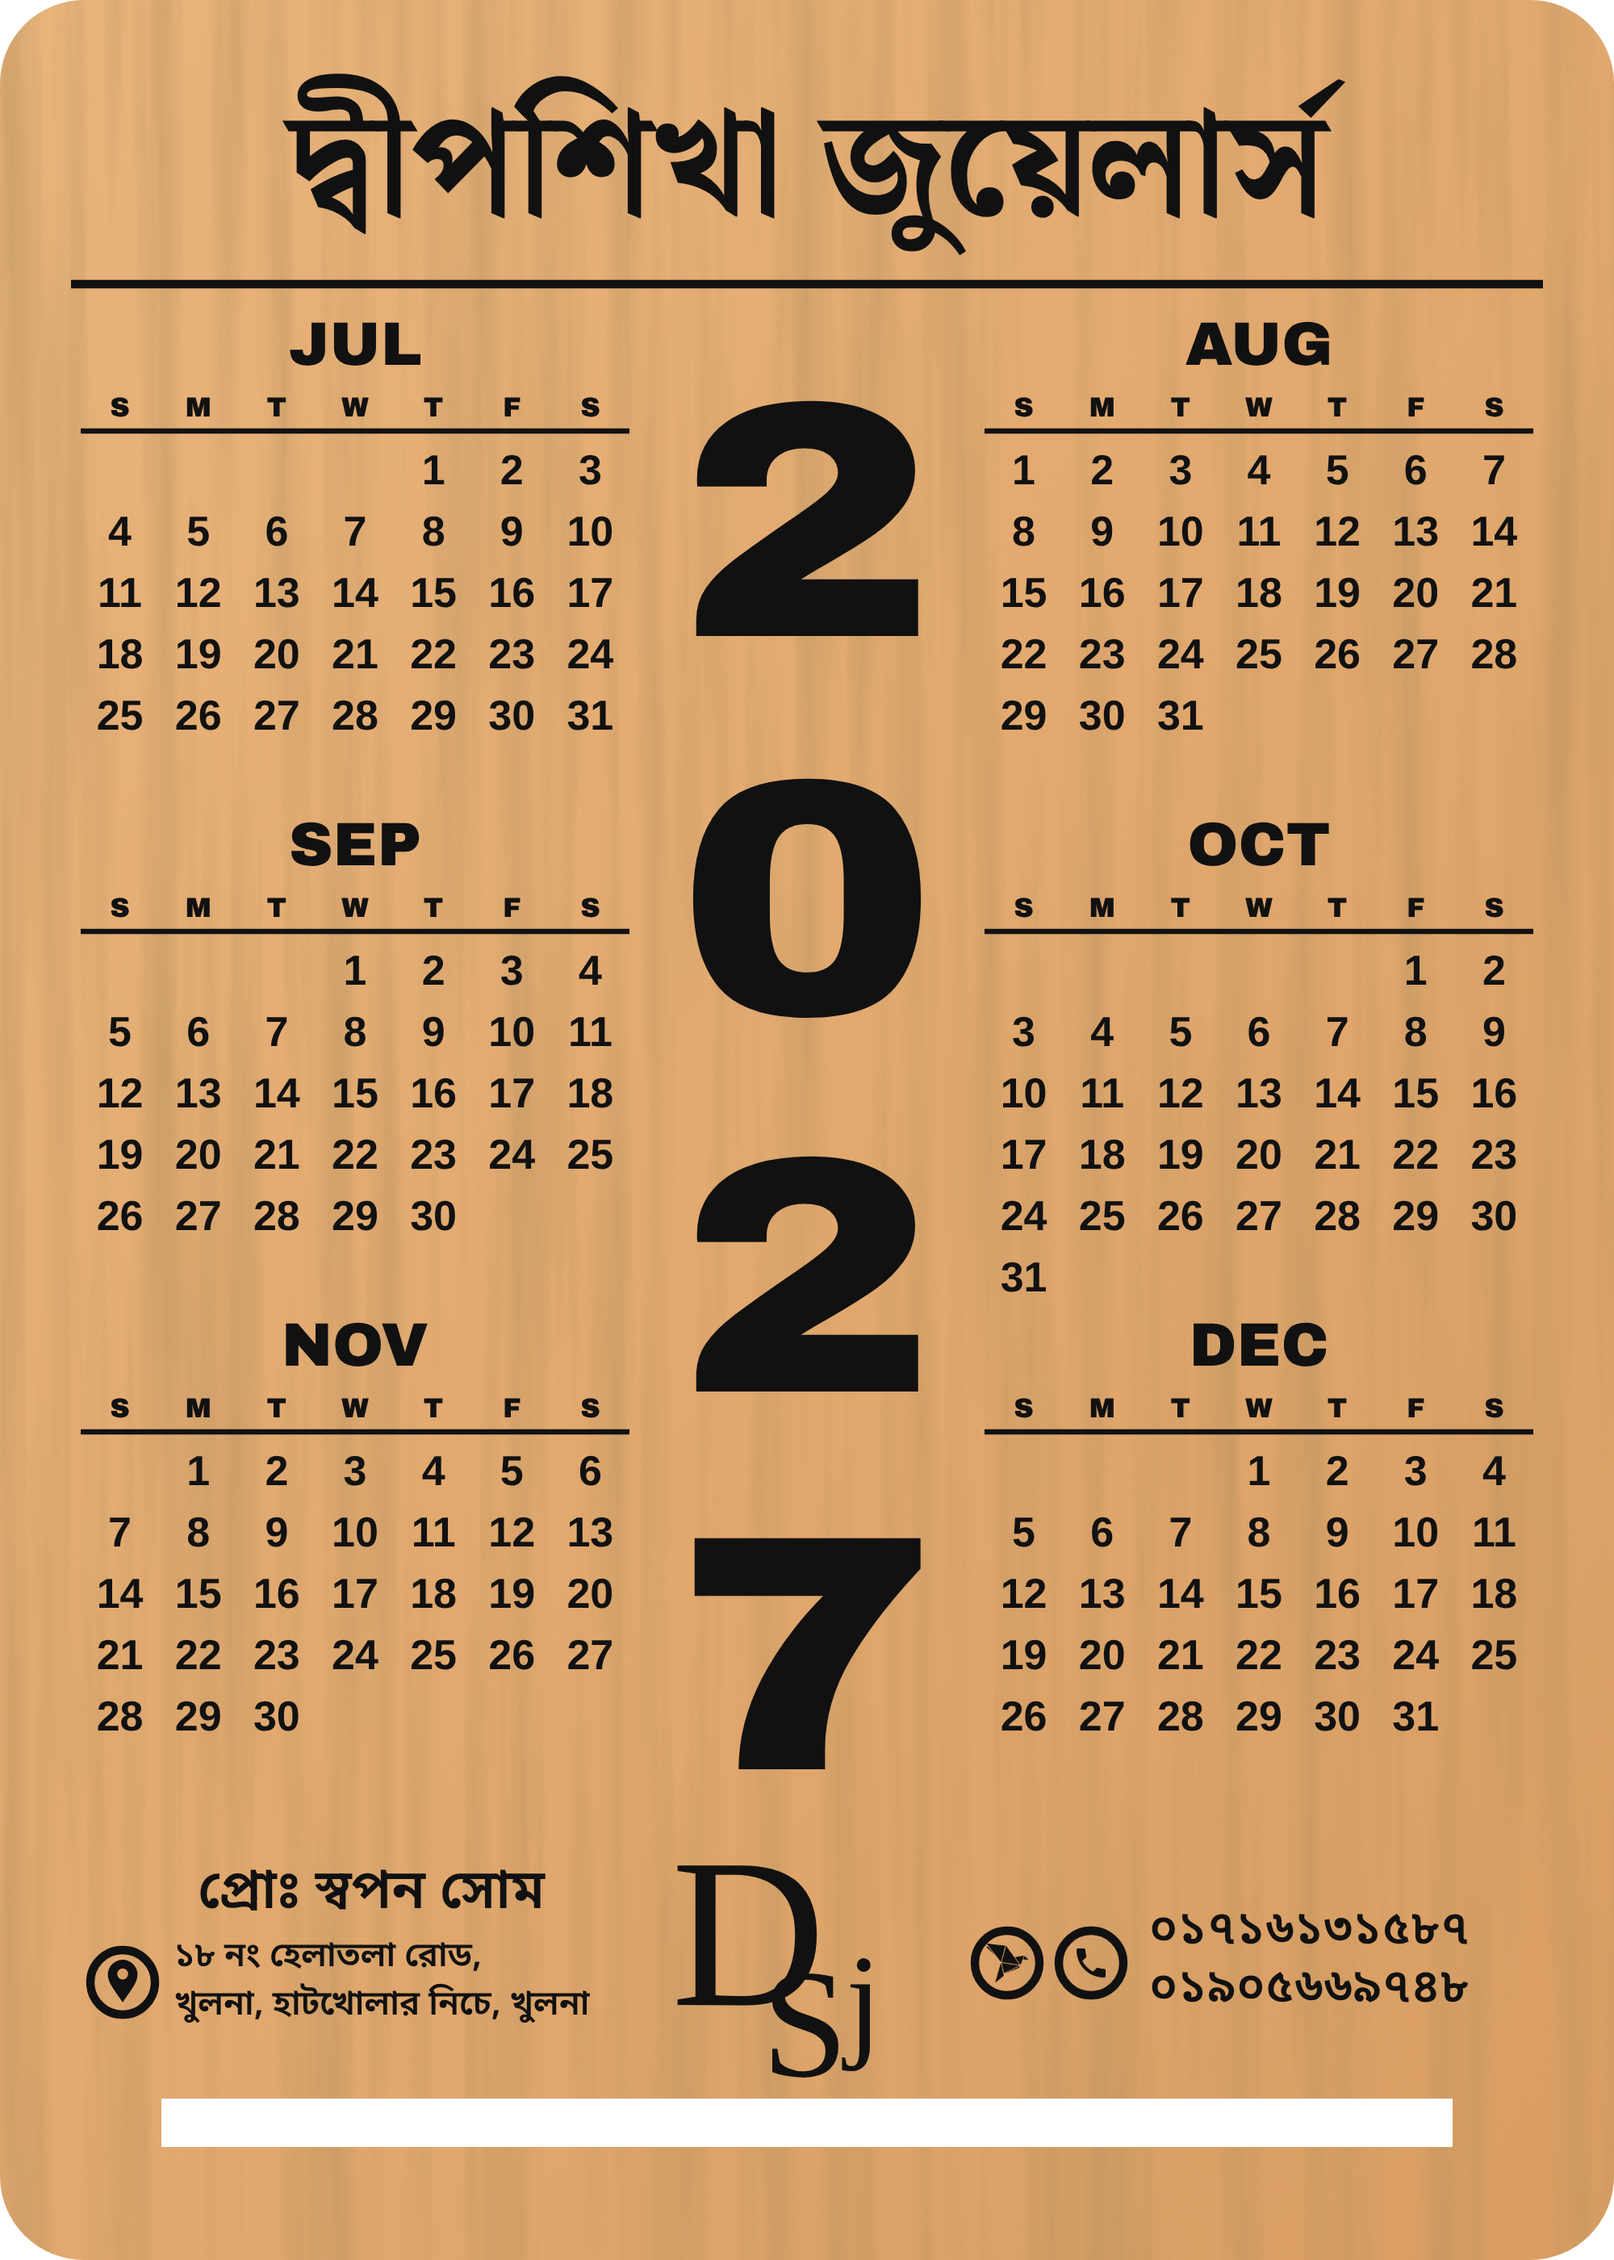
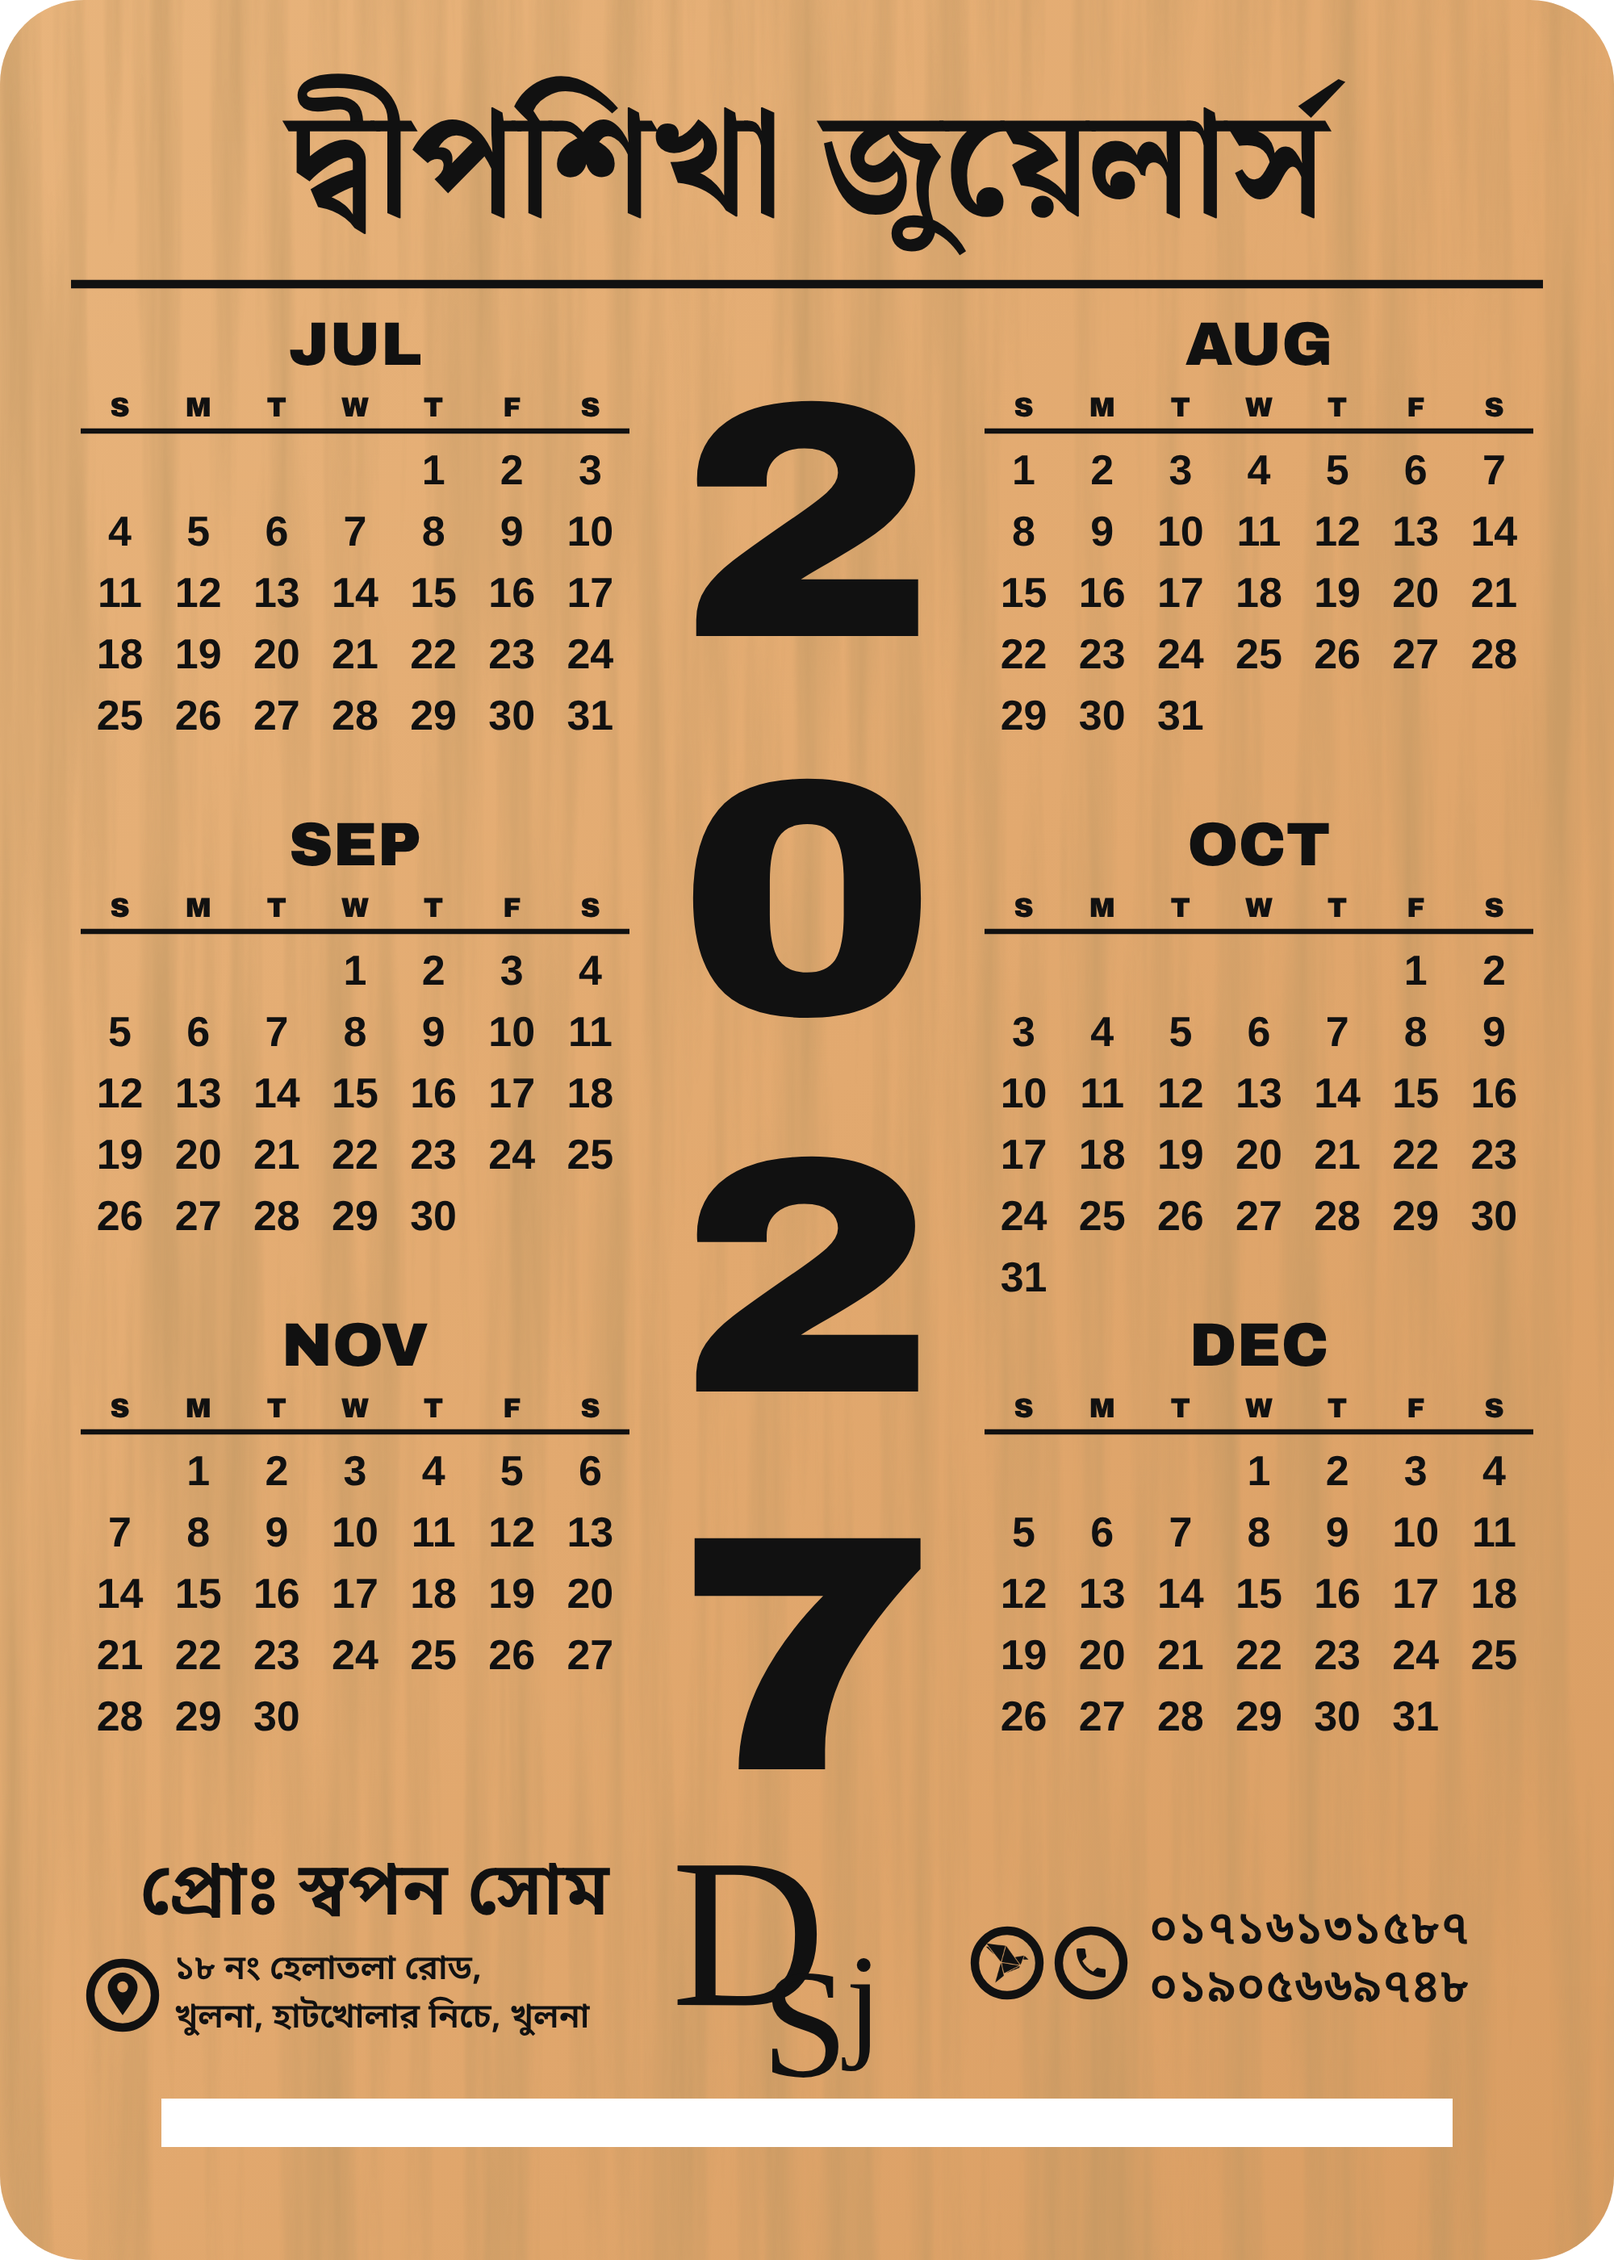
Enlarge owner name on 2027 calendar cards
Claude-Session: https://claude.ai/code/session_01HE6JQd4KUGRrM2AS3dwgPp

Changed region(s): [[0.031, 0.8079, 0.372, 0.9011]]

diff --git a/calendar-2027/index.html b/calendar-2027/index.html
@@ -126,10 +126,10 @@ function card(half, idx) {
     <line x1="22" y1="88" x2="478" y2="88" stroke="#111" stroke-width="2.6"/>
     ${body}
     <!-- footer -->
-    <text class="bn" x="115" y="591" font-size="17" text-anchor="middle">${OWNER}</text>
-    ${pin(38, 614)}
-    <text class="bn" x="54" y="609" font-size="10.6">${ADDR1}</text>
-    <text class="bn" x="54" y="624" font-size="10.6">${ADDR2}</text>
+    <text class="bn" x="116" y="593" font-size="23" font-weight="700" text-anchor="middle">${OWNER}</text>
+    ${pin(38, 618)}
+    <text class="bn" x="54" y="613" font-size="10.6">${ADDR1}</text>
+    <text class="bn" x="54" y="628" font-size="10.6">${ADDR2}</text>
     <g class="logo">
       <text x="208" y="621" font-size="66">D</text>
       <text x="236" y="643" font-size="48">S</text>
